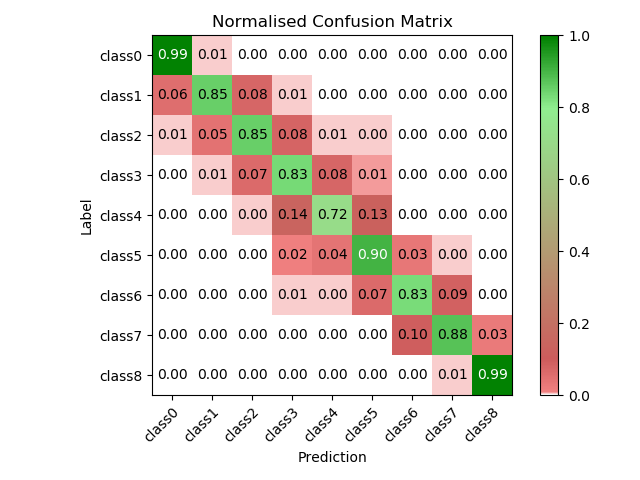
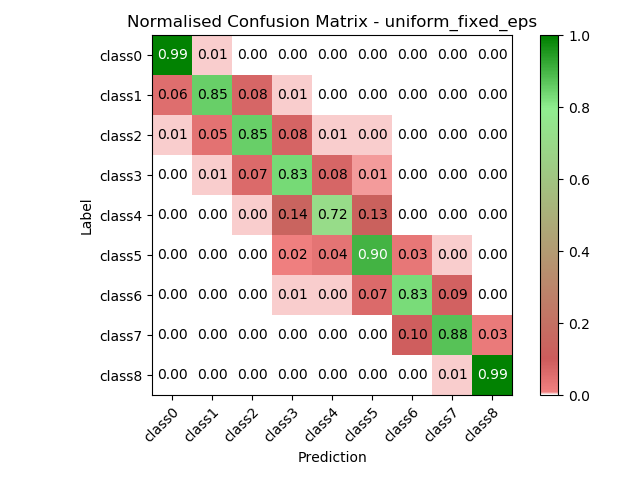
results collected

Changed region(s): [[0.1875, 0.0312, 0.8438, 0.0625]]

diff --git a/experiments/run_experiment.py b/experiments/run_experiment.py
@@ -203,9 +203,13 @@ def plot_test_results(results_dict, experiment_folder, acc_type="accuracies"):
         plt.xticks(x_pos, nms)
 
     plt.ylabel("Accuracy achieved %")
-    plt.title(acc_type.replace("_", " ") + "achieved for each smoothing type")
+    plt.title(acc_type.replace("_", " ") + " achieved for each smoothing type")
+
+    if "central" in acc_type:
+        plt.ylim((80, 90))
+    else:
+        plt.ylim((90.100))
     
-    plt.ylim((70, 90))
     y_val = max(avg_accs) / 2
     for i, v in enumerate(avg_accs):
         plt.text(i -.15  , y_val, ("%.2f \n +/- \n %.2f" % (v, stds[i])) , color="black")
@@ -229,8 +233,8 @@ def plot_confusion_matrices(results_dict, file_to):
             avg_norm_confusion = norm_conf_mat.sum(axis=0) / conf_mat.shape[0]
         
             # TODO - decide how I'm going to display uncertainty in the confusion matrix
-            ts.save_confusion(avg_confusion, classes, "/".join(file_to.split("/")[:-2]) + "/avg_confusion_" + st)
-            ts.save_confusion(avg_norm_confusion, classes, "/".join(file_to.split("/")[:-2]) + "/avg_norm_confusion_" + st)
+            ts.save_confusion(avg_confusion, classes, "/".join(file_to.split("/")[:-2]) + "/avg_confusion_" + st, title_append=(" - "+st.lower()))
+            ts.save_confusion(avg_norm_confusion, classes, "/".join(file_to.split("/")[:-2]) + "/avg_norm_confusion_" + st, title_append=(" - "+st.lower()))
 
 def plot_uncertainty_confusion(results_dict, file_to):
     """Plot confusion matrix with shading as the present colour."""
@@ -252,12 +256,14 @@ def plot_uncertainty_confusion(results_dict, file_to):
             # Plot the std as the colors with 0 as white
 
             # Sort the heatmap
-            cmap = plt.cm.YlOrRd
+            cmap = plt.cm.YlOrRd_r
+            # threshold for starting white text (cmap dependent)
+            thresh = 0.02
+
             cmaplist=[cmap(i) for i in range(cmap.N)]
             cmaplist.reverse()
             cmaplist[0] =(1.,1.,1., 1.0) # set 0 to white
             cmap = mpl.colors.LinearSegmentedColormap.from_list('Custom cmap', cmaplist, cmap.N)
-            thresh = std.max() / cmap.N
 
             fig, ax = plt.subplots()
 
@@ -514,6 +520,9 @@ if __name__ == "__main__":
 
             print("Completed run at", datetime.datetime.now())
             print("Time for run %.3f hrs" % ((time.time() - TIME_RUN) / (60**2)))
+
+        if skip:
+            break
 
     ## ANALYSIS ##
     if not skip:

diff --git a/models/unet/train_segment2d.py b/models/unet/train_segment2d.py
@@ -734,7 +734,7 @@ def save_graphs(inputs, labels, predicted, og_idx, reporting_file):
 
     return
 
-def save_confusion(mat, classes, to_file):
+def save_confusion(mat, classes, to_file, title_append=""):
     """Saves matrix plot to file and dumps."""
 
     mat.dump(to_file + ".pkl")
@@ -753,6 +753,8 @@ def save_confusion(mat, classes, to_file):
         title = "Confusion Matrix"
         cmap = plt.cm.Blues
         thresh = mat.max() / 2.
+
+    title += title_append
 
     fig, ax = plt.subplots()
 
